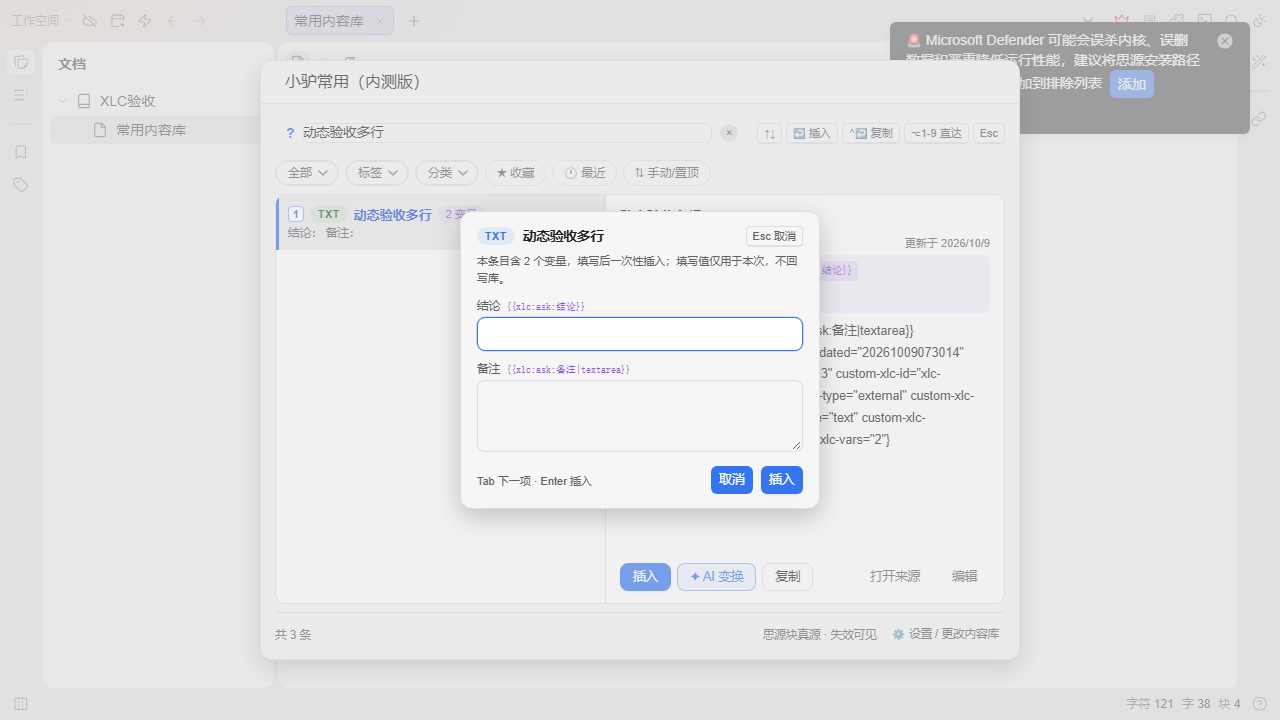
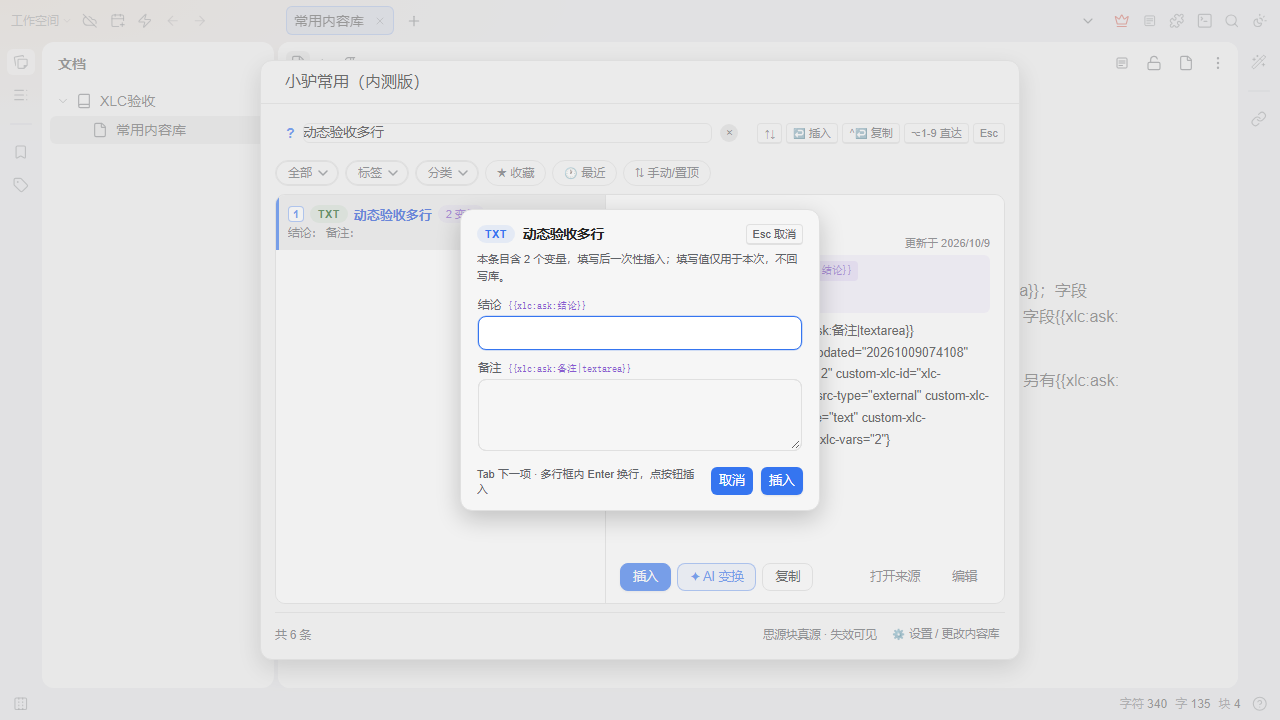
fix(R162): 填充卡限高重构（字段滚动/按钮常驻）+ 新特性文档表述补全
- 填充卡三段式：卡限高 min(720px,92vh)，头/说明/按钮固定，仅字段区滚动（16 字段+textarea 高度压测通过）
- 含 textarea 字段时提示行改 varFormHintMultiline（新增 i18n 双语键），如实说明 Enter=换行
- 预览变量 chip 补 word-break: break-all（16 选项长串不撑破）
- README/design-spec/provider-guide/ADR0006 补日期算术/随机/多行语法及 | 分隔符原因；设置页占位符开关副标同步
- 真机：高度压测 ✓ + real-varfill 8/8 + real-dynamic 11/11（新 prep 环境复验，留档 dist 不热更教训）

diff --git a/src/ui/variable-form.ts b/src/ui/variable-form.ts
@@ -70,7 +70,10 @@ export function openVariableFillCard(options: VariableFillOptions): void {
     // 字段区：text→input / select→input+datalist（↑↓ 选择，保键盘一致） / date→input[type=date]
     // textarea→textarea（R160：Enter=换行，插入走按钮/Tab；其余 Enter=插入）
     // wrap 用 label 元素：点字段任意处聚焦输入框，读屏器可朗读字段名（R115）
+    // 字段独立成滚动区（R162）：字段多/textarea 高时只滚字段，插入/取消按钮常驻可见
     const inputs: Array<HTMLInputElement | HTMLTextAreaElement> = [];
+    const fieldsWrap = document.createElement("div");
+    fieldsWrap.className = "xlc-varform-fields";
     for (const [fieldIndex, field] of options.fields.entries()) {
         const wrap = document.createElement("label");
         wrap.className = "xlc-varform-field";
@@ -108,14 +111,16 @@ export function openVariableFillCard(options: VariableFillOptions): void {
         input.dataset.xlcVarField = field.name;
         wrap.appendChild(input);
         inputs.push(input);
-        root.appendChild(wrap);
+        fieldsWrap.appendChild(wrap);
     }
+    root.appendChild(fieldsWrap);
 
     const foot = document.createElement("div");
     foot.className = "xlc-varform-foot";
     const kbdHint = document.createElement("span");
     kbdHint.className = "xlc-varform-hint";
-    kbdHint.textContent = t("varFormHint");
+    // 含 textarea 字段时 Enter 语义变化（R160）：提示行如实告知，不沿用「Enter 插入」
+    kbdHint.textContent = options.fields.some((f) => f.kind === "textarea") ? t("varFormHintMultiline") : t("varFormHint");
     foot.appendChild(kbdHint);
     const cancelBtn = document.createElement("button");
     cancelBtn.className = "b3-button";

diff --git a/src/styles/index.scss b/src/styles/index.scss
@@ -765,6 +765,8 @@ body.b3-theme-dark,
       background-color: var(--xlc-var-tint-strong);
       border-radius: 4px;
       padding: 1px 5px;
+      // 多选项字段（上限 16 项）的语法 chip 是长 ASCII 串：无空格断点会撑破提示行（R162）
+      word-break: break-all;
     }
   }
 
@@ -1387,8 +1389,21 @@ body.b3-theme-dark,
   display: flex;
   flex-direction: column;
   gap: 10px;
+  min-height: 0;
+  flex: 1;
   font-size: 13px;
   color: var(--b3-theme-on-background);
+
+  // 字段滚动区（R162）：头/说明/按钮固定，仅字段滚动
+  .xlc-varform-fields {
+    flex: 1;
+    min-height: 0;
+    overflow-y: auto;
+    display: flex;
+    flex-direction: column;
+    gap: 10px;
+    padding: 1px; // 防字段聚焦描边被 overflow 裁切
+  }
 
   .xlc-varform-head {
     display: flex;
@@ -1626,7 +1641,27 @@ body.b3-theme-dark,
 // ---------- 变量填充卡宿主容器（原型屏 4：紧凑卡，无独立标题栏）----------
 // 卡头（徽标+标题+Esc 取消）即标题；取消/插入按钮与 Esc 均可达，隐藏宿主头不损失关闭路径
 .b3-dialog__container.xlc-varform-host {
+  // 字段上限 16（textarea 字段更高）：卡限高，只滚字段区，插入/取消按钮常驻可见（R162）
+  max-height: min(720px, 92vh);
+  display: flex;
+  flex-direction: column;
+
   .b3-dialog__header { display: none; }
+
+  .b3-dialog__content {
+    min-height: 0;
+    display: flex;
+    flex-direction: column;
+    overflow: hidden;
+  }
+
+  .b3-dialog__body {
+    flex: 1;
+    min-height: 0;
+    display: flex;
+    flex-direction: column;
+    overflow: hidden;
+  }
 
   .b3-dialog__content, .b3-dialog__body {
     padding: 14px 16px 14px;

diff --git a/README.md b/README.md
@@ -10,7 +10,7 @@
 
 > 独立运行，不依赖小驴雷切；同时提供 `xiaolv-common/v1` 协议供小驴系列插件联动。
 
-**核心能力一览**：插入时变量填充（文本/下拉/日期）· 片段嵌套 · AI 整理/草稿/变换/语义找 · 模板包分享 · 使用计数与「常用」排序 · 拼音直达 · 分类分组 · 移动端底部 sheet · 提供方协议联动。
+**核心能力一览**：插入时变量填充（文本/下拉/日期/多行）· 片段嵌套 · AI 整理/草稿/变换/语义找 · 模板包分享 · 使用计数与「常用」排序 · 拼音直达 · 分类分组 · 移动端底部 sheet · 提供方协议联动。
 
 ## 小驴系列插件
 
@@ -125,13 +125,13 @@ CommonItem（思源块承载）
 | **AI 语义找条目** | 搜索框 `?` 前缀（如 `?给客户的道歉回复`）→ 标注「AI 找到的」 | **仅元数据**（标题/别名/标签/分类/摘要），不含正文与来源 ID |
 | **AI 标签体检** | 设置面板「✦ AI 标签体检」→ 归并/改名建议清单（只建议，不自动修改） | 仅标签清单 |
 
-另有**动态占位符**（code 条目保持字面，绝不改写代码）：条目中写 `{{xlc:date}} / {{xlc:time}} / {{xlc:datetime}} / {{xlc:weekday}} / {{xlc:title}} / {{xlc:doc}} / {{xlc:path}} / {{xlc:clipboard}}`，插入或复制时替换为当前日期时间/当前文档标题与路径/剪贴板文本（无活动文档等场景替换为空串）（`xlc:` 命名空间不误伤思源模板；存储内容始终保留模板原文，可在设置关闭）。
+另有**动态占位符**（code 条目保持字面，绝不改写代码）：条目中写 `{{xlc:date}} / {{xlc:time}} / {{xlc:datetime}} / {{xlc:weekday}} / {{xlc:title}} / {{xlc:doc}} / {{xlc:path}} / {{xlc:clipboard}}`，插入或复制时替换为当前日期时间/当前文档标题与路径/剪贴板文本（无活动文档等场景替换为空串）。**日期算术**：`{{xlc:date|+3d}}`（三天后）、`{{xlc:date|-1w}}`（一周前）、`{{xlc:date|+2m}}`/`{{xlc:date|+1y}}`（月/年进位按日历钳制）、`{{xlc:date|next_monday}}`（下一个星期一，取严格未来最近一天）。**随机选择**：`{{xlc:random|选项A,选项B,选项C}}` 替换时随机取一项。带参语法分隔符必须用 `|`（`:` 形式会被思源 emoji 短代码损坏，插件永不展开、保留原文）。表达式写坏一律原样保留不吞内容；`xlc:` 命名空间不误伤思源模板；存储内容始终保留模板原文，可在设置关闭。
 
 ## 变量、片段嵌套与模板包
 
 | 能力 | 用法 |
 | --- | --- |
-| **插入时变量填充** | 内容写 `{{xlc:ask:字段}}`（文本）/ `{{xlc:ask:字段\|选项A,选项B}}`（下拉）/ `{{xlc:ask:字段\|date}}`（日期）→ 插入前弹填充卡片（Enter 插入 / Esc 取消 / Tab 切字段）；填写值仅用于本次不回写库；未填充兜底 `__字段__` 可见可改 |
+| **插入时变量填充** | 内容写 `{{xlc:ask:字段}}`（文本）/ `{{xlc:ask:字段\|选项A,选项B}}`（下拉）/ `{{xlc:ask:字段\|date}}`（日期）/ `{{xlc:ask:字段\|textarea}}`（多行文本框，框内 Enter 换行、点按钮插入）→ 插入前弹填充卡片（Enter 插入 / Esc 取消 / Tab 切字段）；填写值仅用于本次不回写库；未填充兜底 `__字段__` 可见可改 |
 | **光标落点** | `{{xlc:cursor}}` 标记位置（宿主 API 限制：插入后光标落于内容之后） |
 | **片段嵌套** | `{{xlc:snippet:标题}}` 插入时展开为另一条目内容（深度 ≤3、环检测；不可解析落 `__片段：标题__`）；预览/填充卡所见 = 插入所得 |
 | **常用排序** | 插入/复制自动记次数（仅本机、可清空）；排序档「⇅ 常用」= 次数 × 最近使用 |

diff --git a/docs/design/design-spec.md b/docs/design/design-spec.md
@@ -60,8 +60,8 @@
 ### 3.4 变量元素（v3 新增）
 - 徽标（列表）：`{{}} N 变量`，紫罗兰淡彩+等宽 10.5px。
 - 预览提示行（`.pane-vars`）：「插入时将询问 N 个变量：」+ 语法 chip，10% 紫底。
-- 快捷插入条（捕获表单）：点选即插入文本光标处；字段含 `{{xlc:ask:字段}}`、`{{xlc:ask:字段|A,B}}`、`{{xlc:snippet:标题}}`（F5 片段嵌套）、`{{xlc:cursor}}`、`{{xlc:date}}`、`{{xlc:doc}}`、`{{xlc:clipboard}}`。
-- 填充卡片（屏 4）：360px 卡，头部=类型徽标+标题+`Esc 取消`；说明行声明「草稿值不回写库」；字段 label 附等宽语法 tag（下拉字段列出选项）；底部 `Tab 下一项 · Enter 插入` + 取消/插入。自动变量（`{{xlc:doc}}`）禁用态灰显。
+- 快捷插入条（捕获表单）：点选即插入文本光标处；字段含 `{{xlc:ask:字段}}`、`{{xlc:ask:字段|A,B}}`、`{{xlc:ask:字段|textarea}}`（R160 多行）、`{{xlc:snippet:标题}}`（F5 片段嵌套）、`{{xlc:cursor}}`、`{{xlc:date}}`、`{{xlc:date|+3d}}`（R160 日期算术）、`{{xlc:random|A,B}}`（R160 随机）、`{{xlc:doc}}`、`{{xlc:clipboard}}`。
+- 填充卡片（屏 4）：360px 卡，头部=类型徽标+标题+`Esc 取消`；说明行声明「草稿值不回写库」；字段 label 附等宽语法 tag（下拉字段列出选项）；底部 `Tab 下一项 · Enter 插入` + 取消/插入（含 textarea 字段时提示行改为「多行框内 Enter 换行」，R162）；卡体限高 `min(720px, 92vh)` 内部滚动（16 字段上限不撑出视口，R162）。自动变量（`{{xlc:doc}}`）禁用态灰显。
 
 ### 3.5 表单（`.xlc-form`）
 字段=12px 标签（500）+ 输入 13px + 11px 提示。输入框 surface 底、8 圆角、7×10 padding；hover 描边 primary-light，focus 描边主色+底提亮为 background。textarea 行高 1.7 可拖高。双栏行 `.xlc-form-row`（fixed 130px 档位给类型/分类/日期）。

diff --git a/docs/dev-plan-2026-10-06.md b/docs/dev-plan-2026-10-06.md
@@ -1646,3 +1646,13 @@ LEDGER_EOF
 - **版本**：仍 0.3.6（未发布过 colon 形式，无需迁移路径）。
 
 
+
+## R162 轮（2026-10-08 新特性集成面巡检——填充卡限高重构 + 文档表述补全）
+
+- **巡检范围**：R160/R161 三特性（日期算术/随机/多行变量）的全部集成面——README/设计规范/提供方指南/ADR 表述、填充卡极端字段场景、预览 chip 溢出、快捷条换行、i18n 文案。
+- **发现并修复（UI）**：
+  - 填充卡无高度上限：字段上限 16、textarea 字段更高，多字段卡会撑出视口、插入按钮不可达。重构为三段式——卡限高 `min(720px, 92vh)`，头/说明/按钮固定，仅 `.xlc-varform-fields` 滚动；提示行含 textarea 字段时改用 `varFormHintMultiline`（新增 i18n 双语键），如实说明「多行框内 Enter 换行」。
+  - 预览窗格变量 chip 无断点：16 选项字段的语法 chip 是长 ASCII 串，补 `word-break: break-all`。
+- **发现并修复（表述）**：README 占位符段/变量表/能力行、design-spec 快捷条与填充卡、provider-guide 变量表（provider 内容插入同样走占位符替换）、ADR 0006 追加 R160/R161 取舍（含 `|` 分隔符原因）、设置页占位符开关副标补日期算术/随机描述（zh/en 同步）。
+- **验证**：单元 231 ✓；tsc 0 错；构建 ✓；i18n 审计 4 项 ✓；check-package 0.3.6 ✓；密钥扫描 ✓。真机（隔离内核 6820 + 真实前端）：高度压测（8 个 textarea 字段）——卡不出视口、按钮常驻、字段区滚动、提示行如实 ✓；real-varfill 8/8 ✓；real-dynamic 11/11 ✓。截图 docs/design/real-varform-height-stress.png。
+- **教训留档**：真机环境不热更新插件资源——6819 环境用修复前 dist 复测出「假失败」，改用新 prep 环境（6820）后复验；真机验证必须用当前 dist 重新 prep。

diff --git a/docs/adr/0006-variable-system-and-snippet-nesting.md b/docs/adr/0006-variable-system-and-snippet-nesting.md
@@ -26,3 +26,10 @@
 ## 门禁
 
 r67-variables/r72-snippet/r78-usage 共 23 项单测；UI 冒烟 previewBoxSized/varBadge/paneVars/transform-result-guard；各项均做负向验证。
+
+## 更新（R160/R161，2026-10-08）：带参占位符与多行字段
+
+- ask 字段第四形态 `{{xlc:ask:字段|textarea}}`（多行文本框；解析/回显/快捷条/预览 chip 同步）。字段语法回显收敛为单一 `askFieldTag()`——此前 variable-form 与 search 预览各写一份模板字符串，新增形态会出现回显口径漂移。
+- 动态占位符新增带参形态：日期算术 `{{xlc:date|+3d}}`/`next_monday`（月年按日历钳制）与随机 `{{xlc:random|A,B}}`。
+- **分隔符取舍（R161 真机实证）**：带参形态必须用 `|`。冒号形式 `{{xlc:date:+3d}}` 会被思源 Lute 当 emoji 短代码在 appendBlock 存储时损坏成 `{{xlc📅+3d}}`（桩件/单测不可见）；插件对冒号形式永不展开、保留原文。ask 的冒号保留（`:ask:` 非短代码，真机验证完好）。
+- 门禁：r160-dynamic-placeholders 10 项（含非法表达式保留原文、随机分布、回显↔解析恒等）；real-dynamic-acceptance 真机 11/11。

diff --git a/docs/provider-guide.md b/docs/provider-guide.md
@@ -87,8 +87,12 @@ common?.unregisterProvider("xiaolv-speed-switch");
 | 变量 | 展开值 |
 | --- | --- |
 | `{{xlc:date}}` / `{{xlc:time}}` / `{{xlc:datetime}}` / `{{xlc:weekday}}` | 当前日期/时间/日期时间/星期 |
+| `{{xlc:date\|+3d}}` / `{{xlc:date\|-1w}}` / `{{xlc:date\|+2m}}` / `{{xlc:date\|+1y}}` / `{{xlc:date\|next_monday}}` | 日期算术：N 日/周/月/年后（前），月年进位按日历钳制；`next_星期` 取严格未来最近一天（R160） |
+| `{{xlc:random\|选项A,选项B}}` | 随机取一项（R160） |
 | `{{xlc:title}}` / `{{xlc:doc}}` / `{{xlc:path}}` | 当前文档标题/文档名（doc 同 title）/完整路径 |
 | `{{xlc:clipboard}}` | 剪贴板文本（读取失败替换为空串） |
+
+> 带参语法分隔符必须用 `|`：`:date:` 形式会被思源 Lute 当 emoji 短代码损坏（落库成 📅），插件对冒号形式永不展开、保留原文（R161 真机实证）。
 
 **不适用于提供方 payload 的变量**（仅限库条目插入）：`{{xlc:ask:…}}`（需填充卡交互）、`{{xlc:cursor}}`（光标标记）、`{{xlc:snippet:…}}`（片段嵌套需库索引查找）。
 
